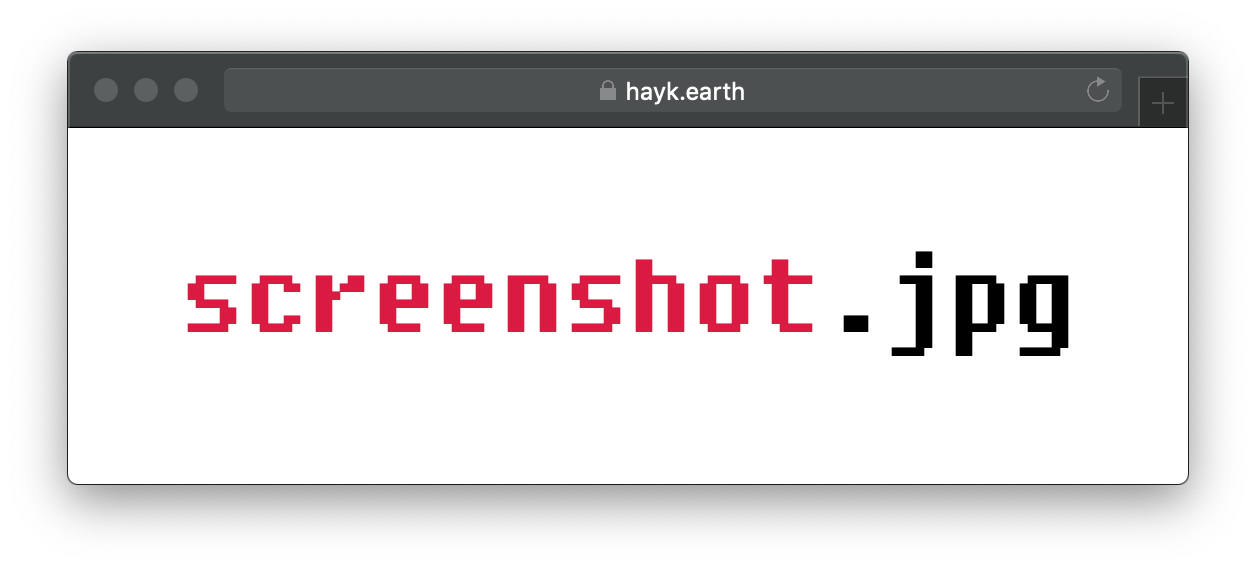
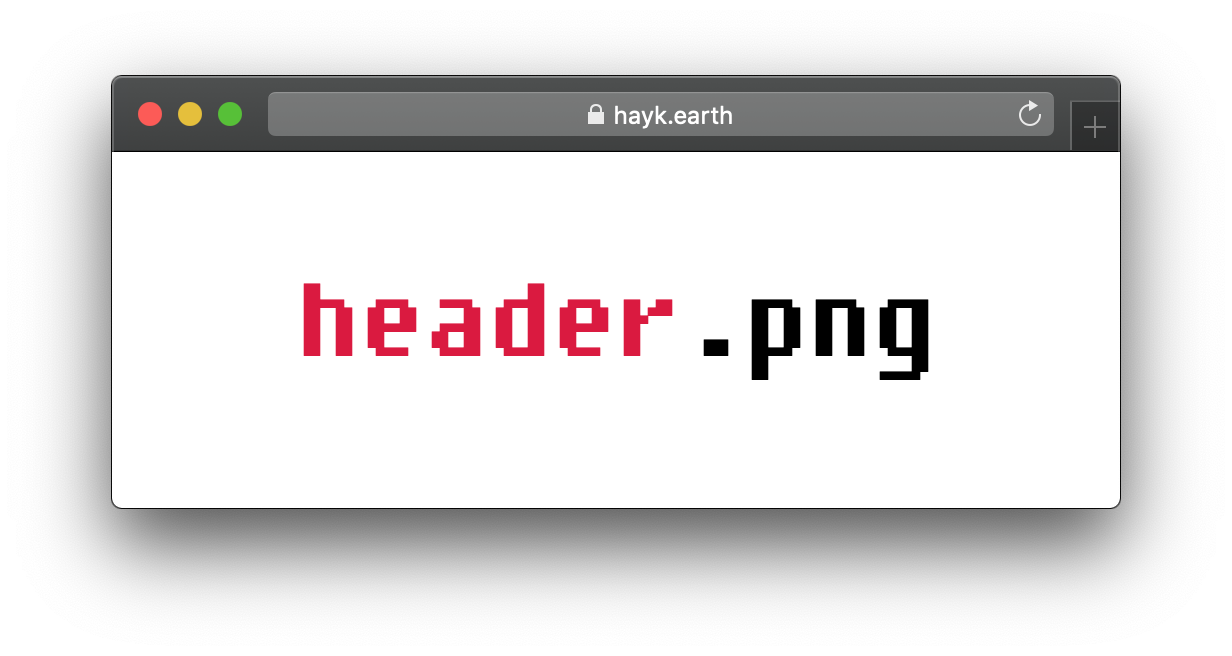
header update

Changed region(s): [[0.0308, 0.0898, 0.9562, 0.8979], [0.1234, 0.419, 0.8636, 0.6285]]

diff --git a/README.md b/README.md
@@ -7,7 +7,7 @@
 
 _My_ readme boilerplate. ⚡
 
-![Screenshot](header.png)
+![Header](header.png)
 
 ## 📦 Installation
 
